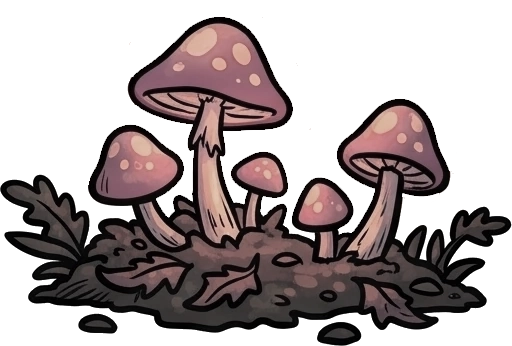
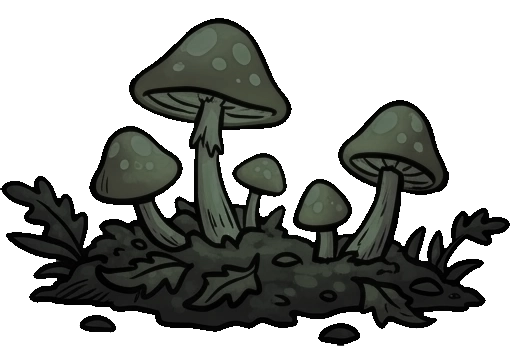
Lumevale 1.11.3-adfd07410e

diff --git a/index.html b/index.html
@@ -103,10 +103,10 @@
     <h2 data-t="saveT"></h2>
     <p data-t="save"></p>
   </section>
-  <footer>Lumevale v1.11.2</footer>
+  <footer>Lumevale v1.11.3</footer>
 </main>
 <script>
-  var T = {"pt":{"sub":"Um RPG idle de criaturas de luz. Capture, evolua e desça pelas profundezas.","versao":"Versão 1.11.2","tamanho":"Cerca de 4 MB","offline":"Funciona sem internet","sozinho":"Atualiza sozinho","instalar":"Instalar","instalado":"Instalado! Abra o Lumevale pela tela inicial do aparelho.","jogar":"Jogar no navegador","iosT":"Instalar no iPhone","iosTpad":"Instalar no iPad","ios1":"Abra este link no Safari","ios1s":"Se ele abriu dentro do WhatsApp, Instagram ou outro app, toque em \"Abrir no Safari\" ou no ícone da bússola {bussola}.","ios2":"Toque em Compartilhar {share}","ios2s":"Fica na barra de baixo do Safari. Se você não vê o ícone, toque antes em {mais} no canto de baixo, à direita.","ios2pad":"Toque em Compartilhar {share}","ios2spad":"Fica no alto da tela, à direita da barra de endereço.","ios3":"Toque em \"Adicionar à Tela de Início\" {add}","ios3s":"Role a lista para baixo se ela não aparecer logo.","ios4":"Toque em Adicionar","ios4s":"Se aparecer a opção \"Abrir como App Web\", deixe ligada.","ios5":"Abra o Lumevale pelo ícone novo {casa}","ios5s":"Pela Tela de Início ele abre em tela cheia, funciona sem internet e guarda o progresso. Jogando pelo Safari, o progresso fica separado e pode ser apagado se você passar semanas sem jogar.","outroT":"Abra no Safari para instalar","outro":"No iPhone, o Lumevale se instala pelo Safari. Copie o link e cole na barra de endereço do Safari.","copiar":"Copiar link","copiado":"Link copiado! Agora abra o Safari e cole.","andT":"Instalar no Android","and1":"Toque em Instalar, acima","and1s":"O botão aparece no Chrome depois de alguns segundos.","and2":"Sem botão? Use o menu {pontos} do Chrome","and2s":"Toque em \"Instalar app\" ou \"Adicionar à tela inicial\". Se o link abriu dentro do WhatsApp ou de outro app, toque antes em {pontos} › \"Abrir no Chrome\".","and3":"Abra o Lumevale pelo ícone novo {casa}","and3s":"Ele abre em tela cheia, funciona sem internet e gira junto com o celular.","pcT":"Instalar no PC","pc":"No Chrome ou no Edge, clique em Instalar acima ou no ícone de instalar na barra de endereço. Também dá para jogar direto no navegador.","outrosT":"Outros aparelhos","outroAnd":"Android (Chrome): botão Instalar ou menu ⋮ › Instalar app.","outroIos":"iPhone ou iPad (Safari): Compartilhar › Adicionar à Tela de Início › Adicionar.","outroPc":"PC (Chrome ou Edge): ícone de instalar na barra de endereço.","atuT":"Atualizações","atu":"Não precisa reinstalar. Quando sair uma versão nova, o jogo baixa sozinho; no menu ela entra na hora e, durante o jogo, aparece o botão \"Atualizar\".","saveT":"Já jogava em outro aparelho?","save":"No jogo antigo, abra Configurações › Levar o progresso e copie o código. No app instalado, cole em Opções › Levar o progresso, no menu inicial."},"en":{"sub":"An idle RPG of creatures of light. Catch, evolve and descend into the depths.","versao":"Version 1.11.2","tamanho":"About 4 MB","offline":"Works offline","sozinho":"Updates itself","instalar":"Install","instalado":"Installed! Open Lumevale from your home screen.","jogar":"Play in the browser","iosT":"Install on iPhone","iosTpad":"Install on iPad","ios1":"Open this link in Safari","ios1s":"If it opened inside WhatsApp, Instagram or another app, tap \"Open in Safari\" or the compass icon {bussola}.","ios2":"Tap Share {share}","ios2s":"It is on Safari’s bottom bar. If you don’t see it, first tap {mais} in the bottom-right corner.","ios2pad":"Tap Share {share}","ios2spad":"It is at the top of the screen, to the right of the address bar.","ios3":"Tap \"Add to Home Screen\" {add}","ios3s":"Scroll down the list if it doesn’t show up right away.","ios4":"Tap Add","ios4s":"If you see \"Open as Web App\", leave it on.","ios5":"Open Lumevale from the new icon {casa}","ios5s":"From the Home Screen it opens full screen, works offline and keeps your progress. Playing in Safari keeps a separate save that may be erased if you don’t play for weeks.","outroT":"Open in Safari to install","outro":"On iPhone, Lumevale installs through Safari. Copy the link and paste it into Safari’s address bar.","copiar":"Copy link","copiado":"Link copied! Now open Safari and paste it.","andT":"Install on Android","and1":"Tap Install, above","and1s":"The button shows up in Chrome after a few seconds.","and2":"No button? Use the Chrome menu {pontos}","and2s":"Tap \"Install app\" or \"Add to Home screen\". If the link opened inside WhatsApp or another app, first tap {pontos} › \"Open in Chrome\".","and3":"Open Lumevale from the new icon {casa}","and3s":"It opens full screen, works offline and turns with your phone.","pcT":"Install on PC","pc":"In Chrome or Edge, click Install above or the install icon in the address bar. You can also play right in the browser.","outrosT":"Other devices","outroAnd":"Android (Chrome): Install button or menu ⋮ › Install app.","outroIos":"iPhone or iPad (Safari): Share › Add to Home Screen › Add.","outroPc":"PC (Chrome or Edge): install icon in the address bar.","atuT":"Updates","atu":"No need to reinstall. When a new version comes out, the game downloads it by itself; on the main menu it applies right away and, during play, an \"Update\" button appears.","saveT":"Played on another device?","save":"In the old game, open Settings › Transfer progress and copy the code. In the installed app, paste it in Options › Transfer progress on the main menu."}};
+  var T = {"pt":{"sub":"Um RPG idle de criaturas de luz. Capture, evolua e desça pelas profundezas.","versao":"Versão 1.11.3","tamanho":"Cerca de 4 MB","offline":"Funciona sem internet","sozinho":"Atualiza sozinho","instalar":"Instalar","instalado":"Instalado! Abra o Lumevale pela tela inicial do aparelho.","jogar":"Jogar no navegador","iosT":"Instalar no iPhone","iosTpad":"Instalar no iPad","ios1":"Abra este link no Safari","ios1s":"Se ele abriu dentro do WhatsApp, Instagram ou outro app, toque em \"Abrir no Safari\" ou no ícone da bússola {bussola}.","ios2":"Toque em Compartilhar {share}","ios2s":"Fica na barra de baixo do Safari. Se você não vê o ícone, toque antes em {mais} no canto de baixo, à direita.","ios2pad":"Toque em Compartilhar {share}","ios2spad":"Fica no alto da tela, à direita da barra de endereço.","ios3":"Toque em \"Adicionar à Tela de Início\" {add}","ios3s":"Role a lista para baixo se ela não aparecer logo.","ios4":"Toque em Adicionar","ios4s":"Se aparecer a opção \"Abrir como App Web\", deixe ligada.","ios5":"Abra o Lumevale pelo ícone novo {casa}","ios5s":"Pela Tela de Início ele abre em tela cheia, funciona sem internet e guarda o progresso. Jogando pelo Safari, o progresso fica separado e pode ser apagado se você passar semanas sem jogar.","outroT":"Abra no Safari para instalar","outro":"No iPhone, o Lumevale se instala pelo Safari. Copie o link e cole na barra de endereço do Safari.","copiar":"Copiar link","copiado":"Link copiado! Agora abra o Safari e cole.","andT":"Instalar no Android","and1":"Toque em Instalar, acima","and1s":"O botão aparece no Chrome depois de alguns segundos.","and2":"Sem botão? Use o menu {pontos} do Chrome","and2s":"Toque em \"Instalar app\" ou \"Adicionar à tela inicial\". Se o link abriu dentro do WhatsApp ou de outro app, toque antes em {pontos} › \"Abrir no Chrome\".","and3":"Abra o Lumevale pelo ícone novo {casa}","and3s":"Ele abre em tela cheia, funciona sem internet e gira junto com o celular.","pcT":"Instalar no PC","pc":"No Chrome ou no Edge, clique em Instalar acima ou no ícone de instalar na barra de endereço. Também dá para jogar direto no navegador.","outrosT":"Outros aparelhos","outroAnd":"Android (Chrome): botão Instalar ou menu ⋮ › Instalar app.","outroIos":"iPhone ou iPad (Safari): Compartilhar › Adicionar à Tela de Início › Adicionar.","outroPc":"PC (Chrome ou Edge): ícone de instalar na barra de endereço.","atuT":"Atualizações","atu":"Não precisa reinstalar. Quando sair uma versão nova, o jogo baixa sozinho; no menu ela entra na hora e, durante o jogo, aparece o botão \"Atualizar\".","saveT":"Já jogava em outro aparelho?","save":"No jogo antigo, abra Configurações › Levar o progresso e copie o código. No app instalado, cole em Opções › Levar o progresso, no menu inicial."},"en":{"sub":"An idle RPG of creatures of light. Catch, evolve and descend into the depths.","versao":"Version 1.11.3","tamanho":"About 4 MB","offline":"Works offline","sozinho":"Updates itself","instalar":"Install","instalado":"Installed! Open Lumevale from your home screen.","jogar":"Play in the browser","iosT":"Install on iPhone","iosTpad":"Install on iPad","ios1":"Open this link in Safari","ios1s":"If it opened inside WhatsApp, Instagram or another app, tap \"Open in Safari\" or the compass icon {bussola}.","ios2":"Tap Share {share}","ios2s":"It is on Safari’s bottom bar. If you don’t see it, first tap {mais} in the bottom-right corner.","ios2pad":"Tap Share {share}","ios2spad":"It is at the top of the screen, to the right of the address bar.","ios3":"Tap \"Add to Home Screen\" {add}","ios3s":"Scroll down the list if it doesn’t show up right away.","ios4":"Tap Add","ios4s":"If you see \"Open as Web App\", leave it on.","ios5":"Open Lumevale from the new icon {casa}","ios5s":"From the Home Screen it opens full screen, works offline and keeps your progress. Playing in Safari keeps a separate save that may be erased if you don’t play for weeks.","outroT":"Open in Safari to install","outro":"On iPhone, Lumevale installs through Safari. Copy the link and paste it into Safari’s address bar.","copiar":"Copy link","copiado":"Link copied! Now open Safari and paste it.","andT":"Install on Android","and1":"Tap Install, above","and1s":"The button shows up in Chrome after a few seconds.","and2":"No button? Use the Chrome menu {pontos}","and2s":"Tap \"Install app\" or \"Add to Home screen\". If the link opened inside WhatsApp or another app, first tap {pontos} › \"Open in Chrome\".","and3":"Open Lumevale from the new icon {casa}","and3s":"It opens full screen, works offline and turns with your phone.","pcT":"Install on PC","pc":"In Chrome or Edge, click Install above or the install icon in the address bar. You can also play right in the browser.","outrosT":"Other devices","outroAnd":"Android (Chrome): Install button or menu ⋮ › Install app.","outroIos":"iPhone or iPad (Safari): Share › Add to Home Screen › Add.","outroPc":"PC (Chrome or Edge): install icon in the address bar.","atuT":"Updates","atu":"No need to reinstall. When a new version comes out, the game downloads it by itself; on the main menu it applies right away and, during play, an \"Update\" button appears.","saveT":"Played on another device?","save":"In the old game, open Settings › Transfer progress and copy the code. In the installed app, paste it in Options › Transfer progress on the main menu."}};
   var IC = {"share":"<svg class=\"ic\" viewBox=\"0 0 24 24\" aria-hidden=\"true\"><path d=\"M12 3.5v11M8 7.2l4-3.7 4 3.7\" fill=\"none\" stroke=\"currentColor\" stroke-width=\"1.8\" stroke-linecap=\"round\" stroke-linejoin=\"round\"/><path d=\"M8.5 10.5H6.2v9.8h11.6v-9.8h-2.3\" fill=\"none\" stroke=\"currentColor\" stroke-width=\"1.8\" stroke-linejoin=\"round\"/></svg>","mais":"<svg class=\"ic\" viewBox=\"0 0 24 24\" aria-hidden=\"true\"><circle cx=\"12\" cy=\"12\" r=\"9.2\" fill=\"none\" stroke=\"currentColor\" stroke-width=\"1.6\"/><circle cx=\"7.8\" cy=\"12\" r=\"1.3\" fill=\"currentColor\"/><circle cx=\"12\" cy=\"12\" r=\"1.3\" fill=\"currentColor\"/><circle cx=\"16.2\" cy=\"12\" r=\"1.3\" fill=\"currentColor\"/></svg>","add":"<svg class=\"ic\" viewBox=\"0 0 24 24\" aria-hidden=\"true\"><rect x=\"4\" y=\"4\" width=\"16\" height=\"16\" rx=\"4\" fill=\"none\" stroke=\"currentColor\" stroke-width=\"1.7\"/><path d=\"M12 8.5v7M8.5 12h7\" stroke=\"currentColor\" stroke-width=\"1.7\" stroke-linecap=\"round\"/></svg>","bussola":"<svg class=\"ic\" viewBox=\"0 0 24 24\" aria-hidden=\"true\"><circle cx=\"12\" cy=\"12\" r=\"9.2\" fill=\"none\" stroke=\"currentColor\" stroke-width=\"1.6\"/><path d=\"m15.5 8.5-2.2 4.8-4.8 2.2 2.2-4.8Z\" fill=\"currentColor\"/></svg>","pontos":"<svg class=\"ic\" viewBox=\"0 0 24 24\" aria-hidden=\"true\"><circle cx=\"12\" cy=\"6\" r=\"1.7\" fill=\"currentColor\"/><circle cx=\"12\" cy=\"12\" r=\"1.7\" fill=\"currentColor\"/><circle cx=\"12\" cy=\"18\" r=\"1.7\" fill=\"currentColor\"/></svg>","casa":"<svg class=\"ic\" viewBox=\"0 0 24 24\" aria-hidden=\"true\"><path d=\"M4 11 12 4l8 7v9h-5v-6H9v6H4Z\" fill=\"none\" stroke=\"currentColor\" stroke-width=\"1.7\" stroke-linejoin=\"round\"/></svg>"};
   var cfg = {}; try { cfg = JSON.parse(localStorage.getItem('lumevale.config') || '{}') || {}; } catch (e) {}
   var idioma = cfg.idioma || ((navigator.language || 'pt').toLowerCase().indexOf('pt') === 0 ? 'pt' : 'en');

diff --git a/sw.js b/sw.js
@@ -1,6 +1,6 @@
 'use strict';
 /* Lumevale — guarda o jogo no aparelho e troca de versão quando o jogador aceita (ou no menu, na hora). Gerado por montar_site.js. */
-const VERSAO = '1.11.2-576e17cb5e';
+const VERSAO = '1.11.3-adfd07410e';
 const CACHE = 'lumevale-' + VERSAO;
 const ARQUIVOS = ["./","jogo/","icones/apple-180.png","icones/icone-192.png","icones/icone-512.png","icones/icone-mascara-512.png","index.html","jogo/audio/brilho.mp3","jogo/audio/captura.mp3","jogo/audio/chefe.mp3","jogo/audio/clique.mp3","jogo/audio/desmaio.mp3","jogo/audio/escapou.mp3","jogo/audio/evolucao.mp3","jogo/audio/golpe.mp3","jogo/audio/impacto.mp3","jogo/audio/lanterna.mp3","jogo/audio/moeda.mp3","jogo/audio/nivel.mp3","jogo/fontes/f1.woff2","jogo/fontes/f10.woff2","jogo/fontes/f11.woff2","jogo/fontes/f2.woff2","jogo/fontes/f3.woff2","jogo/fontes/f4.woff2","jogo/fontes/f5.woff2","jogo/fontes/f6.woff2","jogo/fontes/f7.woff2","jogo/fontes/f8.woff2","jogo/fontes/f9.woff2","jogo/fontes/fontes.css","jogo/img/ataques/arco.webp","jogo/img/ataques/bolafogo.webp","jogo/img/ataques/brasas.webp","jogo/img/ataques/chamas.webp","jogo/img/ataques/corrente.webp","jogo/img/ataques/correntechao.webp","jogo/img/ataques/cristais.webp","jogo/img/ataques/esporo.webp","jogo/img/ataques/estilhacos.webp","jogo/img/ataques/explosao.webp","jogo/img/ataques/gas.webp","jogo/img/ataques/lasca.webp","jogo/img/ataques/onda.webp","jogo/img/ataques/raiz.webp","jogo/img/ataques/raizbaixa.webp","jogo/img/ataques/respingo.webp","jogo/img/ataques/vagem.webp","jogo/img/ataques/vinha.webp","jogo/img/chefes/coracao.webp","jogo/img/chefes/maeraiz.webp","jogo/img/chefes/matriarca.webp","jogo/img/chefes/reibolor.webp","jogo/img/chefes/sentinela.webp","jogo/img/fundos/cinzas.webp","jogo/img/fundos/cristais.webp","jogo/img/fundos/fungos.webp","jogo/img/fundos/raizes.webp","jogo/img/fundos/ruinas.webp","jogo/img/heroi/andando.webp","jogo/img/heroi/lanterna.webp","jogo/img/heroi/parado.webp","jogo/img/heroi/pulando.webp","jogo/img/inimigos/afogado.webp","jogo/img/inimigos/bolor.webp","jogo/img/inimigos/brasamorta.webp","jogo/img/inimigos/casca.webp","jogo/img/inimigos/enguia.webp","jogo/img/inimigos/esporonegro.webp","jogo/img/inimigos/fogofatuo.webp","jogo/img/inimigos/galho.webp","jogo/img/inimigos/mariposa.webp","jogo/img/inimigos/mineiro.webp","jogo/img/inimigos/olho.webp","jogo/img/inimigos/rastejante.webp","jogo/img/inimigos/salamandra.webp","jogo/img/inimigos/soldado.webp","jogo/img/inimigos/vespa.webp","jogo/img/pecas/borda.webp","jogo/img/pecas/cogumelos.webp","jogo/img/pecas/corrente.webp","jogo/img/pecas/cristais.webp","jogo/img/pecas/escada.webp","jogo/img/pecas/escada_mao.webp","jogo/img/pecas/laje.webp","jogo/img/pecas/lapide.webp","jogo/img/pecas/pilar.webp","jogo/img/pecas/plat_madeira.webp","jogo/img/pecas/plat_raiz.webp","jogo/img/pecas/poste.webp","jogo/img/pets/brilhoca_0.webp","jogo/img/pets/brilhoca_1.webp","jogo/img/pets/brilhoca_2.webp","jogo/img/pets/cinzelo_0.webp","jogo/img/pets/cinzelo_1.webp","jogo/img/pets/cinzelo_2.webp","jogo/img/pets/esporito_0.webp","jogo/img/pets/esporito_1.webp","jogo/img/pets/esporito_2.webp","jogo/img/pets/fagulho_0.webp","jogo/img/pets/fagulho_1.webp","jogo/img/pets/fagulho_2.webp","jogo/img/pets/gotim_0.webp","jogo/img/pets/gotim_1.webp","jogo/img/pets/gotim_2.webp","jogo/img/pets/lascado_0.webp","jogo/img/pets/lascado_1.webp","jogo/img/pets/lascado_2.webp","jogo/img/pets/lumagua_0.webp","jogo/img/pets/lumagua_1.webp","jogo/img/pets/lumagua_2.webp","jogo/img/pets/muscolino_0.webp","jogo/img/pets/muscolino_1.webp","jogo/img/pets/muscolino_2.webp","jogo/img/pets/tecelo_0.webp","jogo/img/pets/tecelo_1.webp","jogo/img/pets/tecelo_2.webp","jogo/img/pets/umbrim_0.webp","jogo/img/pets/umbrim_1.webp","jogo/img/pets/umbrim_2.webp","jogo/index.html","jogo/js/admin.js","jogo/js/ajuda.js","jogo/js/art.js","jogo/js/audio.js","jogo/js/data.js","jogo/js/game.js","jogo/js/historia.js","jogo/js/i18n.js","jogo/js/lang_en.js","jogo/js/main.js","jogo/js/nivel.js","jogo/js/sprites.js","jogo/js/ui.js","manifest.webmanifest"];
 self.addEventListener('install', (e) => {

diff --git a/jogo/js/nivel.js b/jogo/js/nivel.js
@@ -353,21 +353,7 @@
       const pc = LV.PECAS[s.tipo];
       spr.plataforma(c, spr.tingida('pecas/' + s.tipo, tinta, 0.2), s.x0 - 6, s.x1 + 6, s.y, pc);
     }
-    // ninhos: um monte de pedras e um brilho na cor da espécie que vive ali
-    for (const z of L.zonas || []) {
-      if (!vis(z.x0, z.x1)) continue;
-      const pul = 0.7 + 0.3 * Math.sin(t * 1.5 + z.id);
-      art.glow(c, z.cx, z.y - 4, 70, z.cor, 0.12 * pul);
-      c.save();
-      c.fillStyle = '#0b0d12'; c.strokeStyle = art.INK; c.lineWidth = 1.6;
-      for (const [dx, rx, ry] of [[-16, 10, 5], [-4, 13, 7], [10, 9, 5], [20, 6, 3.5]]) {
-        c.beginPath(); c.ellipse(z.cx + dx, z.y - ry + 2, rx, ry, 0, Math.PI, 0); c.fill(); c.stroke();
-      }
-      c.strokeStyle = art.rgba(z.cor, 0.55); c.lineWidth = 1.2;
-      c.beginPath(); c.moveTo(z.cx - 22, z.y - 3); c.quadraticCurveTo(z.cx, z.y - 9, z.cx + 24, z.y - 2); c.stroke();
-      c.restore();
-      art.glow(c, z.cx - 4, z.y - 8, 10, z.cor, 0.55 * pul);
-    }
+    // ninhos: sem marcação no cenário (o montinho de pedras com brilho foi tirado por não combinar com a arte)
     for (const p of L.props) {
       if (p.pend || !vis(p.x - 60, p.x + 60)) continue;
       const im = spr.get('pecas/' + p.tipo);

diff --git a/jogo/js/ui.js b/jogo/js/ui.js
@@ -26,7 +26,7 @@
     if (t && t.scrollIntoView) t.scrollIntoView({ block: 'nearest', inline: 'nearest' });
   };
   const som = (k) => { if (LV.audio) LV.audio.tocar(k); };
-  const VERSAO = '1.11.2';
+  const VERSAO = '1.11.3';
   ui.VERSAO = VERSAO;
   let el = {};
 
